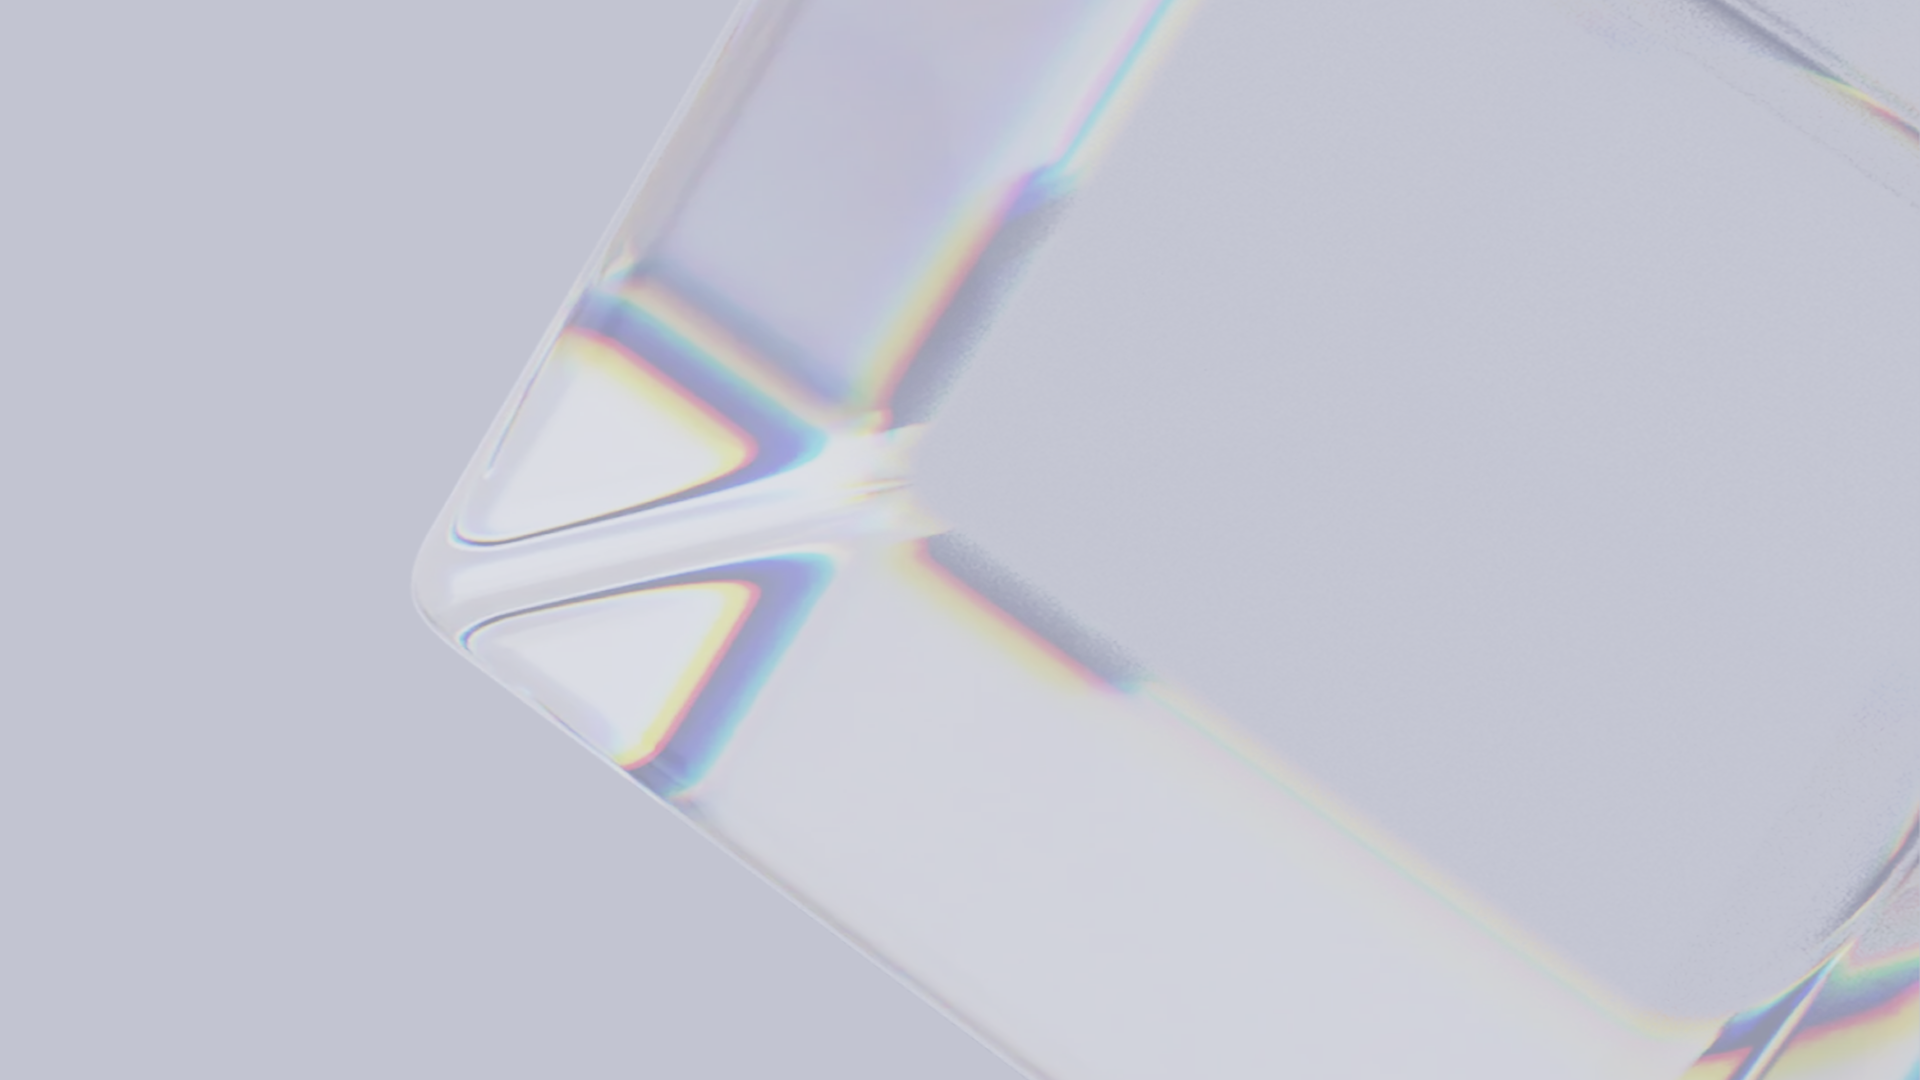
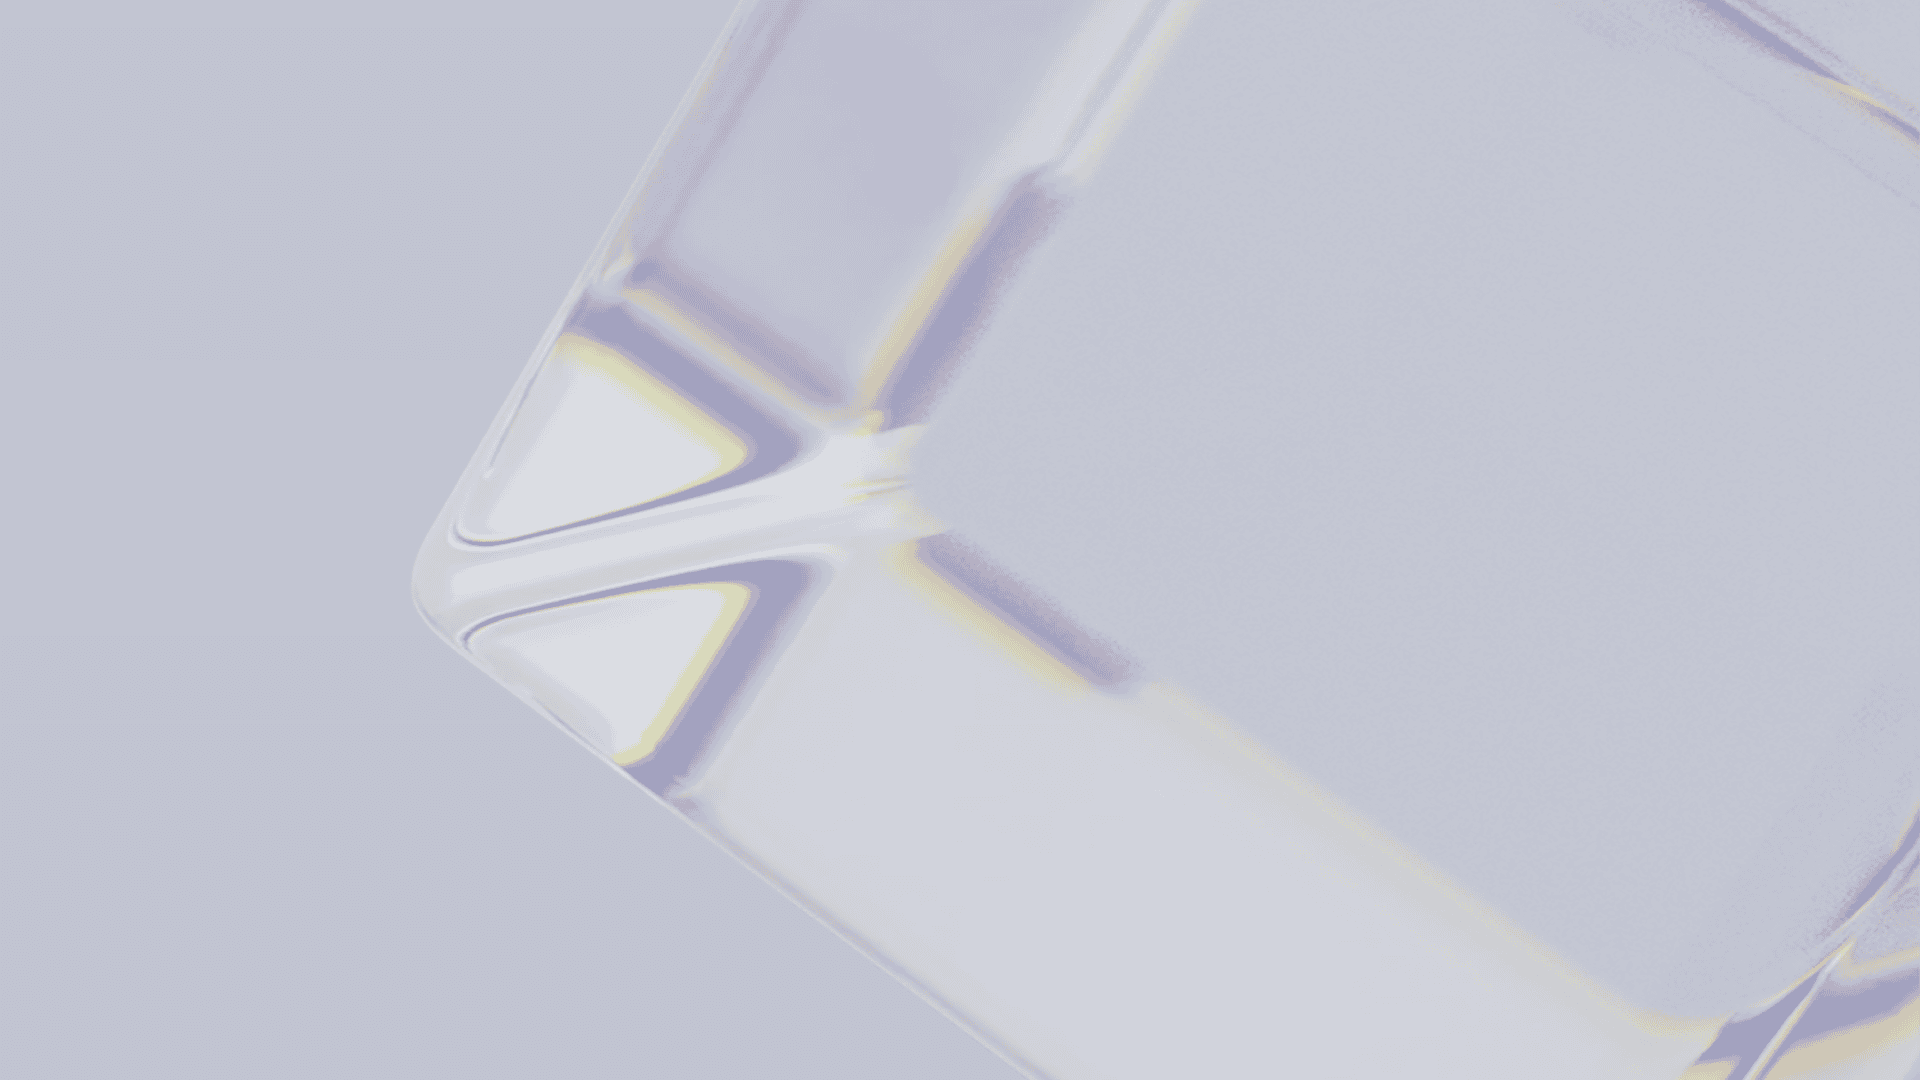
Compressed background images

diff --git a/index.html b/index.html
@@ -292,31 +292,38 @@
       <div class="w-[300px] flex flex-row md:!flex-col">
         <div
           class="w-full h-fit bg-white aspect-video flex items-center justify-center border-b-2 border-custom-ash">
-          <p class="text-black text-center md:text-left text-sm font-semibold md:text-lg w-[125px]">
+          <p
+            class="text-black text-center md:text-left text-sm font-semibold md:text-lg w-[125px]">
             Influencer Management
           </p>
         </div>
         <div
           class="w-full h-fit aspect-video flex items-center justify-center border-b-2 border-custom-ash">
-          <p class="text-custom-ash text-center md:text-left text-sm font-semibold md:text-lg w-[125px]">
+          <p
+            class="text-custom-ash text-center md:text-left text-sm font-semibold md:text-lg w-[125px]">
             Community Management
           </p>
         </div>
         <div
           class="w-full h-fit aspect-video flex items-center justify-center border-b-2 border-custom-ash">
-          <p class="text-custom-ash text-center md:text-left text-sm font-semibold md:text-lg w-[125px]">
-            Virtual <br> Influencers
+          <p
+            class="text-custom-ash text-center md:text-left text-sm font-semibold md:text-lg w-[125px]">
+            Virtual
+            <br />
+            Influencers
           </p>
         </div>
         <div
           class="w-full h-fit aspect-video flex items-center justify-center border-b-2 border-custom-ash">
-          <p class="text-custom-ash text-center md:text-left text-sm font-semibold md:text-lg w-[125px]">
+          <p
+            class="text-custom-ash text-center md:text-left text-sm font-semibold md:text-lg w-[125px]">
             Consulting Services
           </p>
         </div>
         <div
           class="w-full h-fit aspect-video flex items-center justify-center border-b-2 border-custom-ash">
-          <p class="text-custom-ash text-center md:text-left text-sm font-semibold md:text-lg w-[125px]">
+          <p
+            class="text-custom-ash text-center md:text-left text-sm font-semibold md:text-lg w-[125px]">
             Video Marketing
           </p>
         </div>
@@ -376,7 +383,8 @@
                 </svg>
               </button>
             </div>
-            <p class="max-w-[600px] mx-auto text-center text-custom-whitish">
+            <p
+              class="max-w-[600px] text-sm md:text-base mx-auto text-center text-custom-whitish">
               We identify, engage, and collaborate with influencers within the
               online gaming industry to promote your brand or services.
             </p>
@@ -399,6 +407,9 @@
 
         <!-- Carousel -->
         <div
+          data-aos="fade-up"
+          data-aos-duration="1300"
+          data-aos-delay="100"
           id="default-carousel"
           class="relative w-full"
           data-carousel="slide">
@@ -1142,7 +1153,7 @@
           data-aos-delay="100">
           What We Believe
         </h2>
-        <div>
+        <div data-aos="fade-up" data-aos-duration="1300" data-aos-delay="100">
           <iframe
             class="w-full md:w-[75%] aspect-video mx-auto"
             src="https://www.youtube.com/embed/noG_nXqSDyA?si=7B0IAQ_cEwauojQq"
@@ -1167,6 +1178,9 @@
         </h2>
         <!-- Image Grid -->
         <div
+          data-aos="zoom-in"
+          data-aos-duration="1300"
+          data-aos-delay="250"
           class="grid grid-cols-3 sm:grid-cols-4 md:grid-cols-7 gap-y-5 md:gap-y-10 gap-x-5">
           <div class="flex items-center">
             <img
@@ -1254,7 +1268,7 @@
           </div>
         </div>
         <!-- Logo Carousel animation -->
-        <div
+        <!-- <div
           x-data="{}"
           x-init="$nextTick(() => {
             let ul = $refs.logos;
@@ -1350,7 +1364,7 @@
                 alt="" />
             </li>
           </ul>
-        </div>
+        </div> -->
         <!-- End: Logo Carousel animation -->
       </div>
     </section>
@@ -1360,6 +1374,7 @@
         class="w-11/12 2xl:w-[1400px] mx-auto space-y-6 md:space-y-8 lg:space-y-10">
         <div class="w-full flex flex-col md:flex-row justify-between gap-5">
           <div
+            id="footer-anchor"
             data-aos="fade-up"
             data-aos-duration="1300"
             data-aos-delay="50"
